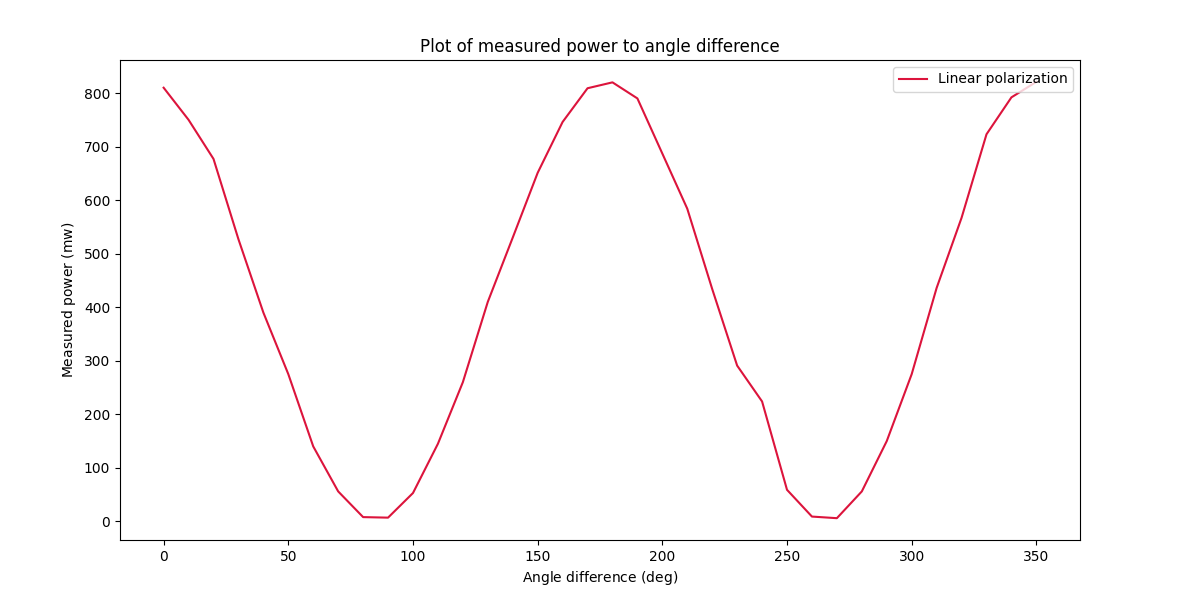
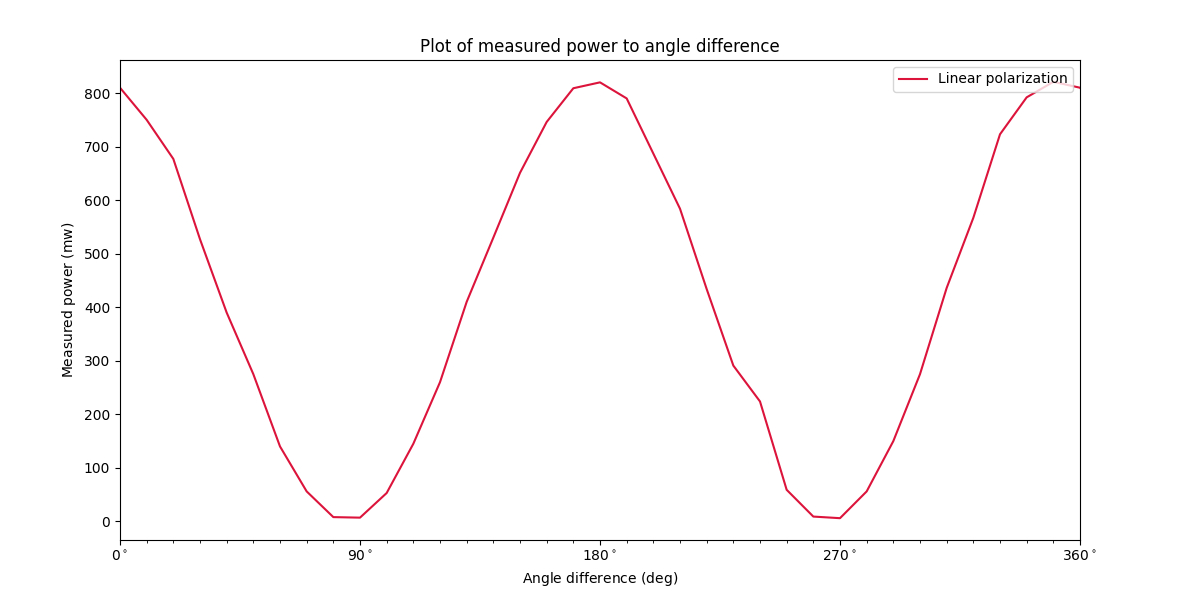
UPDATE Exp06

diff --git a/EOExp06/EOExp06.py b/EOExp06/EOExp06.py
@@ -1,4 +1,5 @@
 import matplotlib.pyplot as plt
+from matplotlib.ticker import MultipleLocator
 import numpy as np
 import os
 import csv
@@ -10,6 +11,11 @@ titles = ['measured power to angle difference', 'measured power to angle differe
 xlabels = [r'Angle difference $\rm{(deg)}$', r'Angle difference $\rm{(deg)}$', r'Applied voltage $\rm{(V)}$']
 ylabels = [r'Measured power $\rm{(mw)}$', r'Measured power $\rm{(mw)}$', r'Measured power $\rm{(mw)}$']
 legends = [['Linear polarization'], [r'$\lambda/2$', r'$\lambda/4$'], ['Normal white liquid crystal']]
+major_locators = [90, 90, 1]
+minor_locators = [10, 45, 1]
+xmins = [0, 0, 0]
+xmaxs = [360, 360, 7]
+formatters = [r'{x:.0f}$^\circ$', r'{x:.0f}$^\circ$', r'{x:.0f}']
 
 # plt stuffs
 figs = []
@@ -35,6 +41,10 @@ for i in range(3):
         axes[i].plot(x_datas, y_datas[j-1], label=legends[i][j-1], color=colors[j-1])
     
     axes[i].legend(loc='upper right')
+    axes[i].xaxis.set_major_locator(MultipleLocator(major_locators[i]))
+    axes[i].xaxis.set_minor_locator(MultipleLocator(minor_locators[i]))
+    axes[i].set_xlim(xmin=xmins[i], xmax=xmaxs[i])
+    axes[i].xaxis.set_major_formatter(formatters[i])
     figs[i].savefig(os.path.join(working_dir, f'fig{i+1}.png'))
 
 plt.show()
